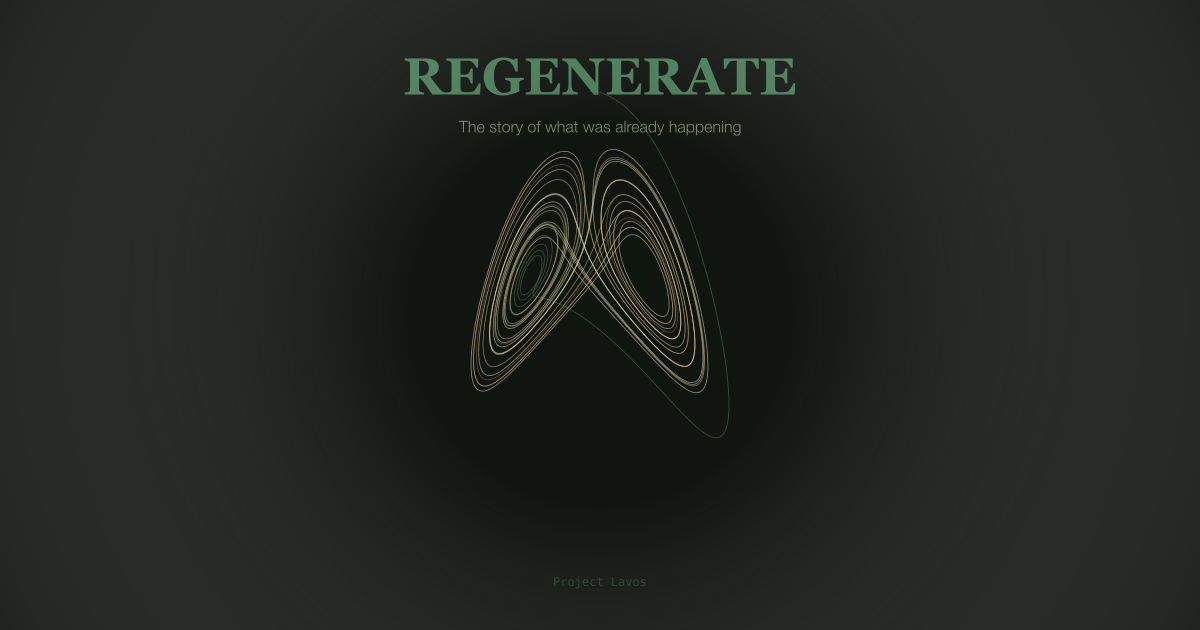
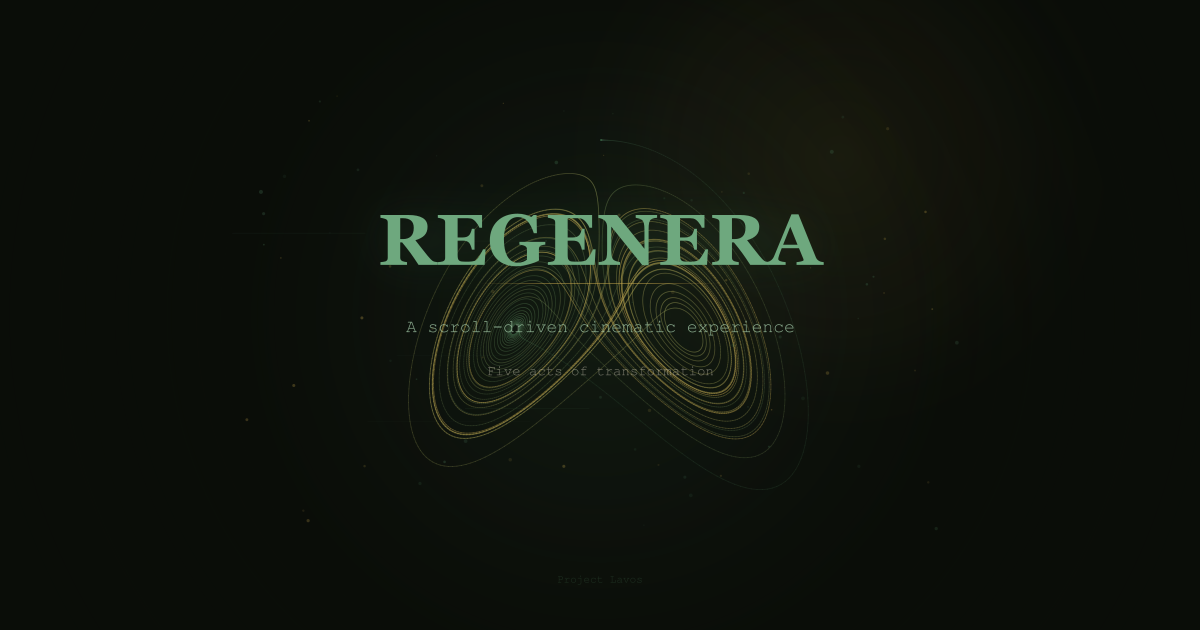
feat(brand): Rename to Regenera, new cinematic OG image
Rename all instances of Regenerate to Regenera across hero text,
page title, OG/Twitter meta tags, and code comments. Generate
new cinematic OG image (1200x630) with Lorenz attractor, moss
green title, gold accents, and meaningful subtitle: "Five acts
of transformation". Social preview uses same image.

diff --git a/index.html b/index.html
@@ -3,8 +3,8 @@
   <head>
     <meta charset="UTF-8" />
     <meta name="viewport" content="width=device-width, initial-scale=1.0, maximum-scale=1.0, user-scalable=no, viewport-fit=cover" />
-    <title>Regenerate -- The story of what was already happening</title>
-    <meta name="description" content="A narrative arc of someone who didn't know they were reinventing themselves. A scroll-driven cinematic experience." />
+    <title>Regenera -- A scroll-driven cinematic experience</title>
+    <meta name="description" content="Five acts of transformation. A scroll-driven cinematic experience tracing the arc from silence to spark." />
     <meta name="theme-color" content="#0a0d08" />
 
     <!-- Preconnect to Google Fonts -->
@@ -12,19 +12,19 @@
     <link rel="preconnect" href="https://fonts.gstatic.com" crossorigin />
 
     <!-- OG Meta -->
-    <meta property="og:title" content="Regenerate" />
-    <meta property="og:description" content="The story of what was already happening. A scroll-driven cinematic experience." />
+    <meta property="og:title" content="Regenera -- Five acts of transformation" />
+    <meta property="og:description" content="A scroll-driven cinematic experience tracing the arc from silence to spark." />
     <meta property="og:type" content="website" />
     <meta property="og:url" content="https://regenerate-experience.vercel.app" />
     <meta property="og:image" content="https://regenerate-experience.vercel.app/og-image.png" />
     <meta property="og:image:width" content="1200" />
     <meta property="og:image:height" content="630" />
-    <meta property="og:image:alt" content="Regenerate -- Lorenz attractor traced in moss green and gold" />
+    <meta property="og:image:alt" content="Regenera -- Lorenz attractor traced in moss green and gold over a dark cinematic void" />
 
     <!-- Twitter Card -->
     <meta name="twitter:card" content="summary_large_image" />
-    <meta name="twitter:title" content="Regenerate" />
-    <meta name="twitter:description" content="The story of what was already happening." />
+    <meta name="twitter:title" content="Regenera -- Five acts of transformation" />
+    <meta name="twitter:description" content="A scroll-driven cinematic experience tracing the arc from silence to spark." />
     <meta name="twitter:image" content="https://regenerate-experience.vercel.app/og-image.png" />
   </head>
   <body>

diff --git a/src/components/TextOverlay.tsx b/src/components/TextOverlay.tsx
@@ -1,5 +1,5 @@
 /**
- * TextOverlay: All narrative text for Regenerate
+ * TextOverlay: All narrative text for Regenera
  *
  * 5-act structure with scroll-driven opacity and Y-translation.
  * Typography: Playfair Display (display), Inter (body), IBM Plex Mono (accent).
@@ -162,7 +162,7 @@ export default function TextOverlay({ progress, isMobile }: TextOverlayProps) {
         {/* === TITLE === */}
         <TextSection enterAt={TEXT.TITLE.enterAt} exitAt={TEXT.TITLE.exitAt} progress={progress} heroMode>
           <div style={{ ...serif(isMobile ? "clamp(1.8rem, 6vw, 3rem)" : "clamp(2rem, 4vw, 3.5rem)", 700), color: "#6ea87e", letterSpacing: "0.08em", textShadow: "0 0 40px rgba(74, 124, 89, 0.4)" }}>
-            REGENERATE
+            REGENERA
           </div>
           <div style={{ ...mono(isMobile ? "0.7rem" : "0.8rem"), color: "#a3c9a8", marginTop: "1rem", letterSpacing: "0.2em" }}>
             The story of what was already happening

diff --git a/src/hooks/useSceneAudio.ts b/src/hooks/useSceneAudio.ts
@@ -1,5 +1,5 @@
 /**
- * useSceneAudio: Sample-based Web Audio engine for Regenerate.
+ * useSceneAudio: Sample-based Web Audio engine for Regenera.
  *
  * Replaces procedural synthesis with real audio samples per scene.
  * Progressive loading: samples fetched as scroll approaches each scene.

diff --git a/src/pages/Home.tsx b/src/pages/Home.tsx
@@ -1,5 +1,5 @@
 /**
- * Home: Regenerate -- The story of what was already happening
+ * Home: Regenera -- A scroll-driven cinematic experience
  *
  * 5 Scenes: The Silence -> The Proliferation -> The Search -> The Convergence -> The Spark
  * Scroll spacer: 1000vh

diff --git a/src/components/Experience3D.tsx b/src/components/Experience3D.tsx
@@ -1,6 +1,6 @@
 /**
  * Experience3D: Main 3D canvas orchestrator -- 5-Scene Architecture
- * Regenerate: The story of what was already happening.
+ * Regenera: A scroll-driven cinematic experience.
  * Timeline constants imported from @/constants/timeline.
  */
 

diff --git a/src/constants/timeline.ts b/src/constants/timeline.ts
@@ -1,5 +1,5 @@
 /**
- * Centralized timeline constants for Regenerate.
+ * Centralized timeline constants for Regenera.
  *
  * Single source of truth for all scene timing, transition zones,
  * text overlay windows, camera behavior, and audio scene ranges.
